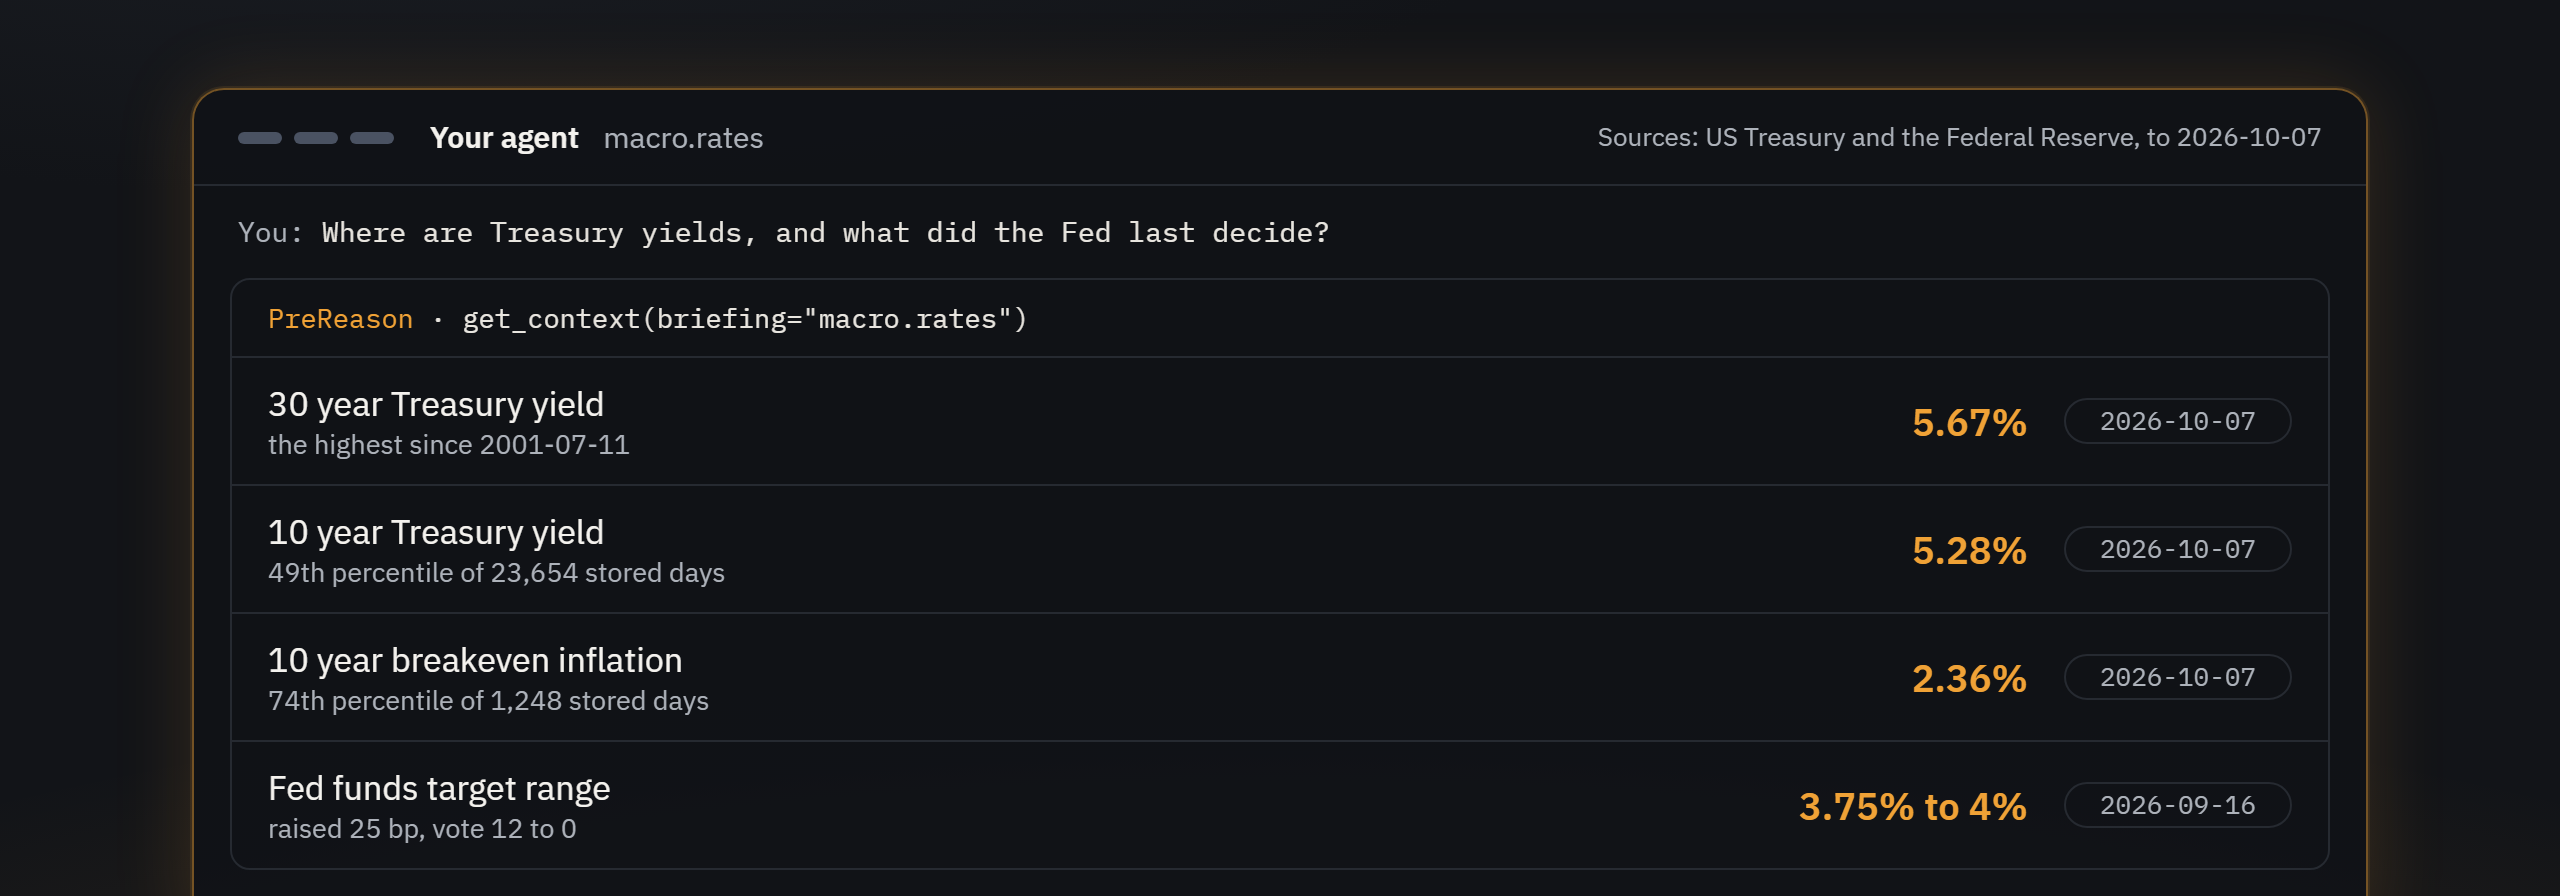
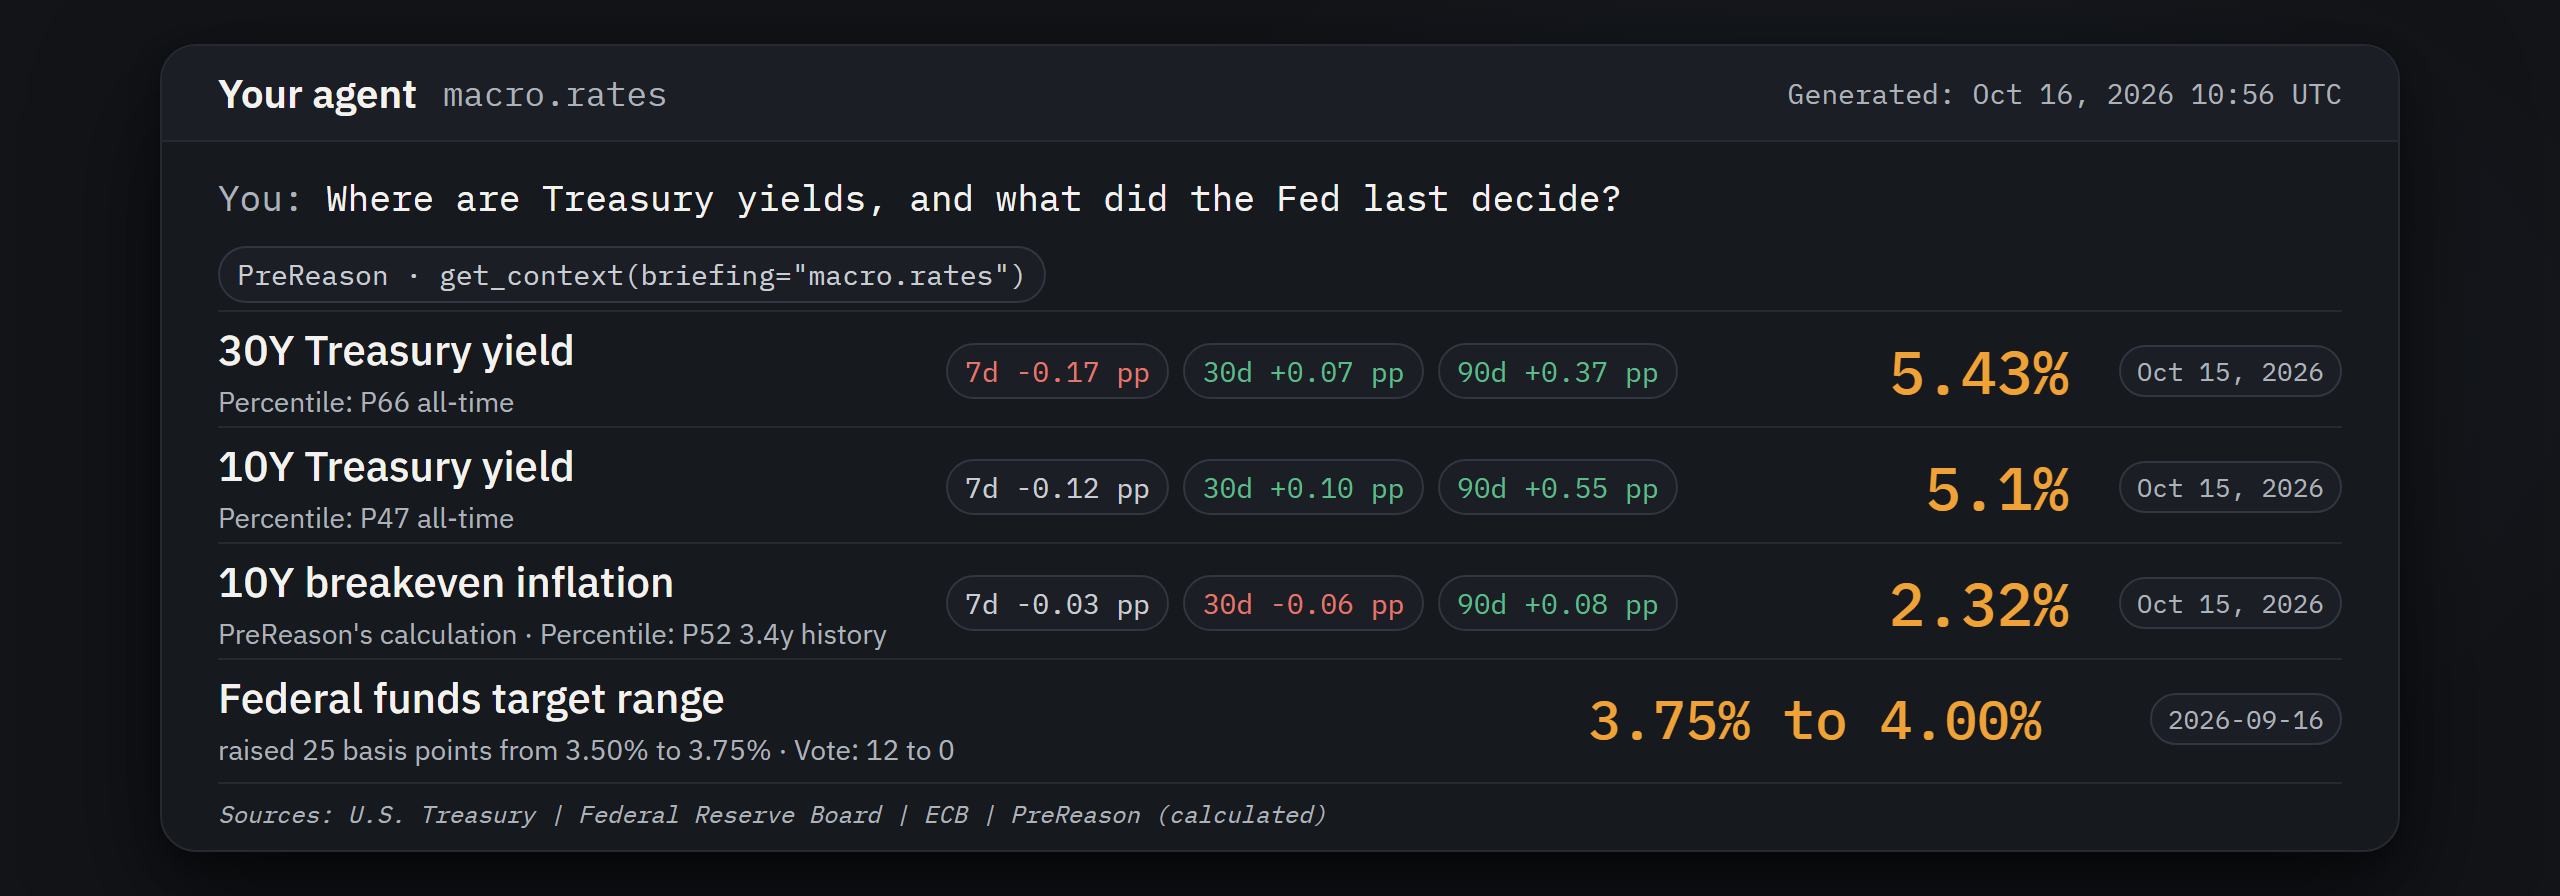
README: the new first three images and their alts; the remote server takes your API key as a header (no release)

diff --git a/README.md b/README.md
@@ -1,6 +1,6 @@
 <div align="center">
 
-<img src="https://raw.githubusercontent.com/PreReason/mcp/main/assets/header.png" alt="PreReason, market context reasoned in advance: the PR mark lit over the names of the Treasury yields, currencies, commodities, macro series and companies it serves" width="100%">
+<img src="https://raw.githubusercontent.com/PreReason/mcp/main/assets/header.png" alt="PreReason, market context reasoned in advance, with npx -y @prereason/mcp, and one served reading as an agent receives it: the 10 year Treasury yield with its 7, 30 and 90 day changes, its reading, its source and when it was generated" width="100%">
 
 # @prereason/mcp
 
@@ -21,7 +21,7 @@ Financial market context for AI agents: macro, rates, bonds, FX, commodities, co
 
 Ask your AI where Treasury yields are. On its own, it reaches for a search result or a raw series and works out the rest by itself. When it prereasons, one `get_context` call brings back the context already worked out: the 30 year yield at 5.67% on 2026-10-07, the highest reading on the US Treasury's daily par yield curve since July 2001.
 
-<img src="https://raw.githubusercontent.com/PreReason/mcp/main/assets/briefing.png" alt="An agent asks where Treasury yields are and what the Fed last decided; get_context with briefing macro.rates answers with the 30 year and 10 year Treasury yields, 10 year breakeven inflation and the Fed funds target range, each with its date and its context, from a served answer of 2026-10-08" width="100%">
+<img src="https://raw.githubusercontent.com/PreReason/mcp/main/assets/briefing.png" alt="An agent asks where Treasury yields are and what the Fed last decided; get_context with briefing macro.rates answers with the 30 year and 10 year Treasury yields and 10 year breakeven inflation, PreReason's calculation, each with its 7, 30 and 90 day changes, its percentile and its date, and the Fed funds target range with its vote, from a served answer of 2026-10-16" width="100%">
 
 ## Why prereason?
 
@@ -30,7 +30,7 @@ Ask your AI where Treasury yields are. On its own, it reaches for a search resul
 - **One call, a whole briefing.** A briefing gathers the series a question needs, so the turns go to the answer rather than to lookups.
 - **The markets in one place.** Rates and Treasuries, the Fed, FX, commodities, macro, listed companies in the USA, Japan, Korea and India, and Bitcoin.
 - **It describes; it never advises.** Briefings say what the data shows. They never say what to buy, sell or hold.
-- **Quick to set up.** One block of config for Claude, Cursor, Codex or VS Code, through the npm bridge or the remote server. The catalogue tools need no key; for the rest, the bridge gives you one link to approve in your browser and the key arrives in the running session, and the remote server asks you to sign in.
+- **Quick to set up.** One block of config for Claude, Cursor, Codex or VS Code, through the npm bridge or the remote server. The catalogue tools need no key; for the rest, the bridge gives you one link to approve in your browser and the key arrives in the running session; the remote server takes your API key as a header.
 
 ## What it covers
 
